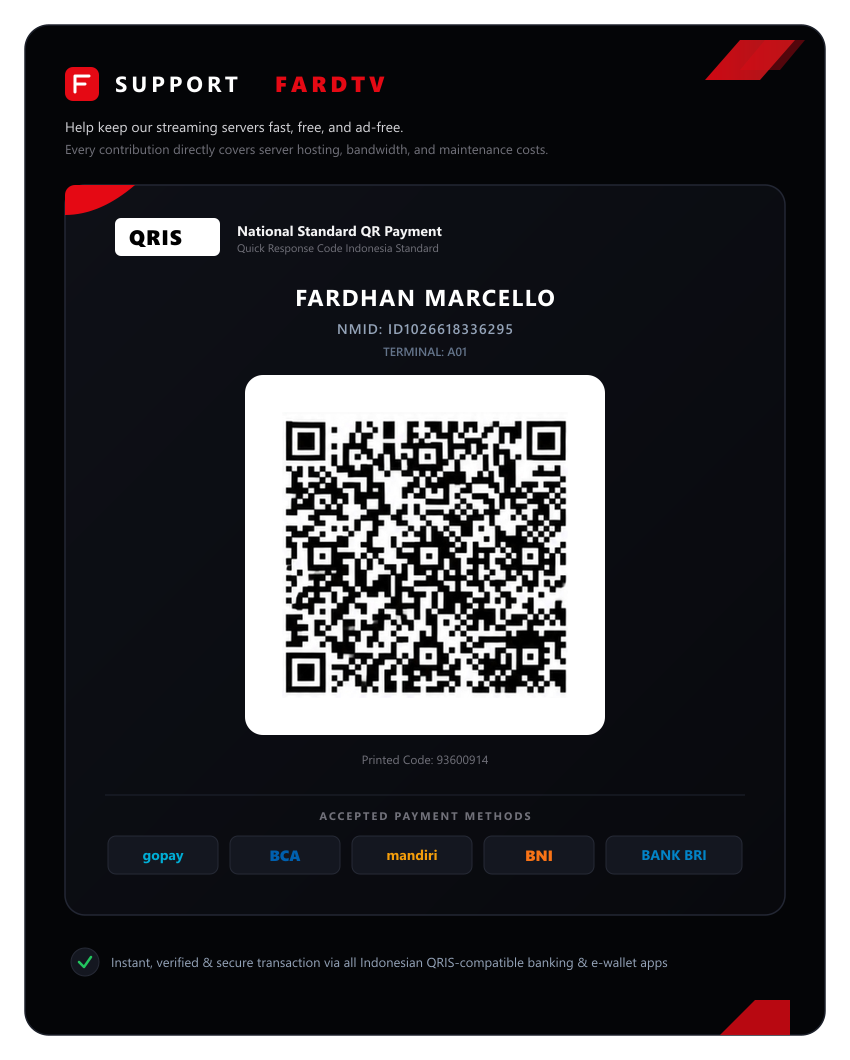
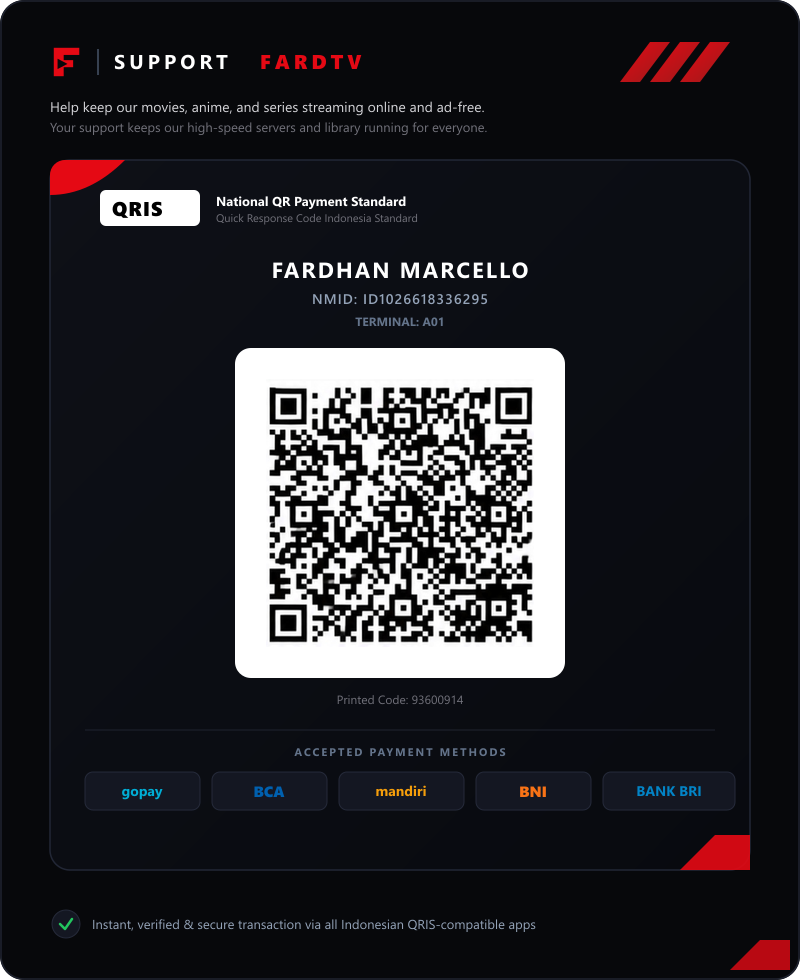
Directly render redesigned English QRIS poster graphic in SupportModal

diff --git a/components/SupportModal.tsx b/components/SupportModal.tsx
@@ -40,99 +40,61 @@ export default function SupportModal() {
 
   return (
     <div
-      className="fixed inset-0 z-50 flex items-center justify-center p-4 bg-black/80 backdrop-blur-sm animate-fade-in"
+      className="fixed inset-0 z-50 flex items-center justify-center p-3 sm:p-4 bg-black/85 backdrop-blur-sm animate-fade-in"
       onClick={closeSupport}
       role="dialog"
       aria-modal="true"
       aria-labelledby="support-dialog-title"
     >
       <div
-        className="relative w-full max-w-[380px] rounded-2xl bg-[#0c0e14] border border-white/[0.1] text-white p-5 shadow-2xl my-auto"
+        className="relative w-full max-w-[420px] rounded-2xl bg-[#07080b] border border-white/[0.1] text-white p-3 sm:p-4 shadow-2xl my-auto animate-fade-in flex flex-col"
         onClick={(e) => e.stopPropagation()}
       >
-        {/* Header */}
-        <div className="flex items-center justify-between pb-3 mb-3 border-b border-white/[0.08]">
-          <div className="flex items-center gap-2">
-            <span className="w-2 h-2 rounded-full bg-red-600 inline-block" />
-            <h2 id="support-dialog-title" className="text-xs font-bold uppercase tracking-wider text-white">
-              Support FardTV
-            </h2>
-          </div>
-          <button
-            type="button"
-            onClick={closeSupport}
-            className="p-1 rounded-lg text-zinc-400 hover:text-white hover:bg-white/[0.08] transition-colors"
-            aria-label="Close dialog"
-          >
-            <svg width="18" height="18" viewBox="0 0 24 24" fill="none" stroke="currentColor" strokeWidth="2" strokeLinecap="round" strokeLinejoin="round">
-              <path d="M18 6 6 18M6 6l12 12" />
-            </svg>
-          </button>
+        {/* Floating Close Button */}
+        <button
+          type="button"
+          onClick={closeSupport}
+          className="absolute top-4 right-4 z-20 p-1.5 rounded-full bg-black/70 hover:bg-black text-zinc-400 hover:text-white transition-colors border border-white/10"
+          aria-label="Close dialog"
+        >
+          <svg width="18" height="18" viewBox="0 0 24 24" fill="none" stroke="currentColor" strokeWidth="2" strokeLinecap="round" strokeLinejoin="round">
+            <path d="M18 6 6 18M6 6l12 12" />
+          </svg>
+        </button>
+
+        <h2 id="support-dialog-title" className="sr-only">
+          Support FardTV via QRIS
+        </h2>
+
+        {/* The Redesigned English QRIS Card */}
+        <div className="relative w-full rounded-xl overflow-hidden shadow-xl border border-white/[0.08] bg-[#07080b]">
+          <Image
+            src="/fardtv-support-card.png"
+            alt="FardTV QRIS Payment Card"
+            width={800}
+            height={980}
+            className="w-full h-auto object-contain block select-none"
+            priority
+          />
         </div>
 
-        {/* Short honest subtext */}
-        <p className="text-xs text-zinc-400 mb-4 leading-relaxed text-center">
-          Help keep our streaming servers fast, free, and ad-free. Scan with any Indonesian banking or e-wallet app.
-        </p>
-
-        {/* Authentic White QRIS Card */}
-        <div className="rounded-xl bg-white p-4 text-black shadow-lg border border-zinc-200 flex flex-col items-center">
-          {/* QRIS Header */}
-          <div className="w-full flex items-center justify-between pb-2 mb-2 border-b border-zinc-200">
-            <span className="text-base font-black tracking-tight text-black">
-              QRIS
-            </span>
-            <span className="text-[10px] font-semibold text-zinc-500 uppercase tracking-wider">
-              National QR Standard
-            </span>
-          </div>
-
-          {/* Merchant Info */}
-          <div className="text-center mb-2">
-            <h3 className="text-sm font-extrabold tracking-wide uppercase text-zinc-900 leading-tight">
-              Fardhan Marcello
-            </h3>
-            <p className="text-[11px] font-mono font-medium text-zinc-500 mt-0.5">
-              NMID: ID1026618336295
-            </p>
-          </div>
-
-          {/* Scannable QR Code */}
-          <div className="relative w-[210px] h-[210px] bg-white flex items-center justify-center">
-            <Image
-              src="/qris-qr.png"
-              alt="QRIS payment code for Fardhan Marcello"
-              width={210}
-              height={210}
-              className="w-full h-full object-contain"
-              priority
-            />
-          </div>
-
-          {/* Card Terminal Info */}
-          <div className="w-full text-center pt-2 mt-1 border-t border-zinc-200 flex items-center justify-between text-[10px] text-zinc-500 font-mono">
-            <span>Terminal: A01</span>
-            <span>Code: 93600914</span>
-          </div>
-        </div>
-
-        {/* Actions Row */}
-        <div className="grid grid-cols-2 gap-2 mt-4">
+        {/* Action Buttons Row */}
+        <div className="grid grid-cols-2 gap-2 mt-3">
           <button
             type="button"
             onClick={handleCopyNMID}
-            className="w-full py-2 px-3 rounded-lg bg-white/[0.08] hover:bg-white/[0.14] border border-white/[0.1] text-xs font-semibold text-white transition-colors flex items-center justify-center gap-1.5 cursor-pointer"
+            className="w-full py-2.5 px-3 rounded-xl bg-white/[0.08] hover:bg-white/[0.14] border border-white/[0.1] text-xs font-semibold text-white transition-all flex items-center justify-center gap-1.5 cursor-pointer active:scale-95"
           >
             {copied ? (
               <>
-                <svg width="13" height="13" viewBox="0 0 24 24" fill="none" stroke="currentColor" strokeWidth="2.5" className="text-emerald-400">
+                <svg width="14" height="14" viewBox="0 0 24 24" fill="none" stroke="currentColor" strokeWidth="2.5" className="text-emerald-400">
                   <polyline points="20 6 9 17 4 12" />
                 </svg>
-                <span className="text-emerald-400">Copied!</span>
+                <span className="text-emerald-400">NMID Copied!</span>
               </>
             ) : (
               <>
-                <svg width="13" height="13" viewBox="0 0 24 24" fill="none" stroke="currentColor" strokeWidth="2">
+                <svg width="14" height="14" viewBox="0 0 24 24" fill="none" stroke="currentColor" strokeWidth="2">
                   <rect width="14" height="14" x="8" y="8" rx="2" ry="2" />
                   <path d="M4 16c-1.1 0-2-.9-2-2V4c0-1.1.9-2 2-2h10c1.1 0 2 .9 2 2" />
                 </svg>
@@ -143,10 +105,10 @@ export default function SupportModal() {
 
           <a
             href="/fardtv-support-card.png"
-            download="FardTV-Support-QR.png"
-            className="w-full py-2 px-3 rounded-lg bg-red-600 hover:bg-red-500 text-xs font-semibold text-white transition-colors flex items-center justify-center gap-1.5 cursor-pointer text-center"
+            download="FardTV-Support-QRIS.png"
+            className="w-full py-2.5 px-3 rounded-xl bg-red-600 hover:bg-red-500 text-xs font-semibold text-white transition-all flex items-center justify-center gap-1.5 cursor-pointer text-center active:scale-95"
           >
-            <svg width="13" height="13" viewBox="0 0 24 24" fill="none" stroke="currentColor" strokeWidth="2">
+            <svg width="14" height="14" viewBox="0 0 24 24" fill="none" stroke="currentColor" strokeWidth="2">
               <path d="M21 15v4a2 2 0 0 1-2 2H5a2 2 0 0 1-2-2v-4" />
               <polyline points="7 10 12 15 17 10" />
               <line x1="12" y1="15" x2="3" />
@@ -154,11 +116,6 @@ export default function SupportModal() {
             <span>Download QR</span>
           </a>
         </div>
-
-        {/* Accepted Payment Channels */}
-        <p className="text-[11px] text-zinc-500 text-center mt-3">
-          Supports GoPay, BCA, Mandiri, BNI, BRI, and all QRIS apps
-        </p>
       </div>
     </div>
   );
